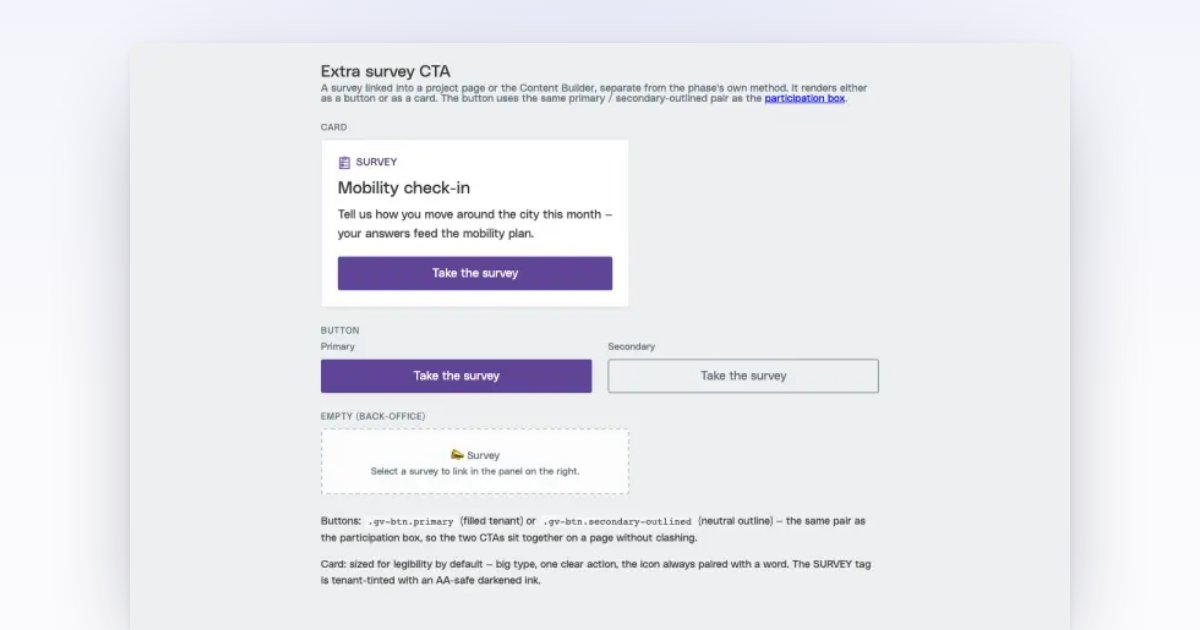
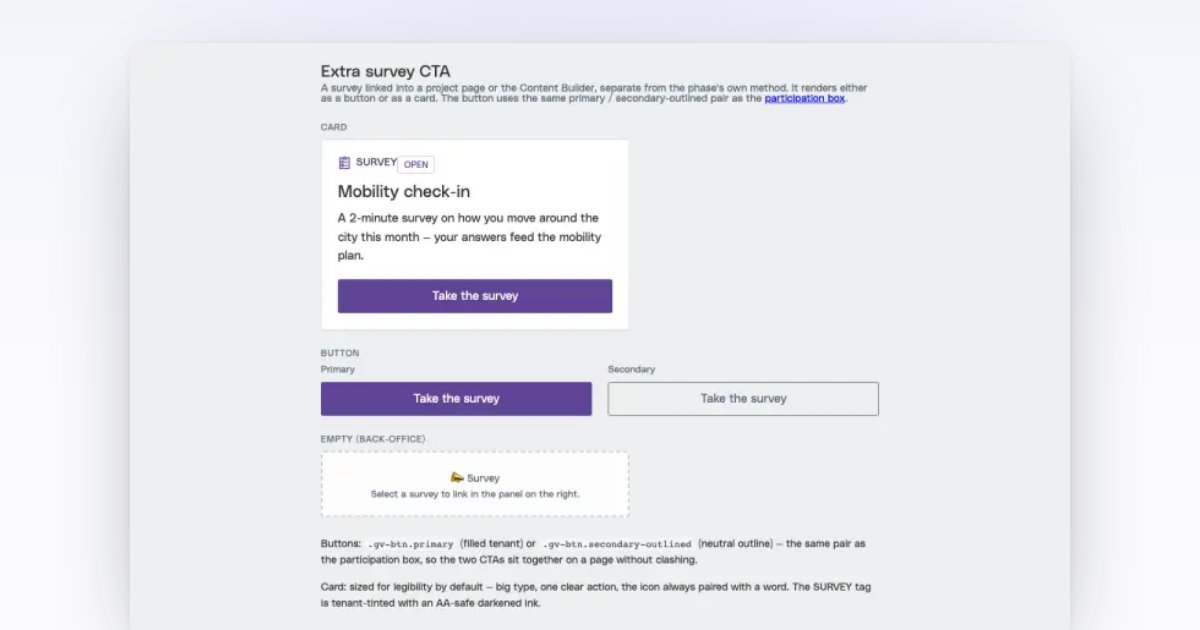
sweep: drop dead .hb-togglerow CSS, expose api.wireBlock, demo extra-survey via registry
Three low-risk audit cleanups:
 • F-CA5: remove the orphaned .hb-togglerow* rules from govocal-widgets.css — the
   registry emits .gv-bo-togglerow (govocal-bo.css); 0 markup uses remained.
 • F-CV3: expose wireBlock on the page-builder api so consumers can re-arm
   dragstart on localStorage-restored blocks (additive; no behaviour change).
 • F-CV1: the extra-survey component demo hand-authored its card and had drifted
   (no .es-head / .gv-statuspill). Render every example from the canonical registry
   (GVWidgets.project.foBlock) so it always tracks the real widget.

Synced widgets.css + pagebuilder.js into both prototype asset copies (identical).
Verified (Playwright): demo card now shows the tag+status-pill head, buttons +
empty render, 0 errors. Lint ✓ no violations.

Changed region(s): [[0.2467, 0.2413, 0.74, 0.9651], [0.6475, 0.5429, 0.74, 0.573]]

diff --git a/components/extra-survey/index.html b/components/extra-survey/index.html
@@ -26,37 +26,26 @@
     <h1>Extra survey CTA</h1>
     <p class="sub">A survey linked into a project page or the Content Builder, separate from the phase's own method. It renders either as a button or as a card. The button uses the same primary / secondary-outlined pair as the <a href="../participation-box/">participation box</a>.</p>
 
+    <!-- Every example below is rendered from the canonical registry
+         (GVWidgets.project['extra-surveys'] / .foBlock) so this demo tracks the real
+         card — incl. the .es-head tag+status-pill row — and never drifts. -->
     <p class="eyebrow">Card</p>
-    <div style="max-width: 420px;">
-      <!-- ===== COMPONENT — card (copy from here) ===== -->
-      <div class="gv-extra-survey gv-extra-survey--card">
-        <span class="gv-extra-survey__tag"><span class="gv-icon" data-gv-icon="survey" aria-hidden="true"></span> Survey</span>
-        <h3 class="gv-extra-survey__title">Mobility check-in</h3>
-        <p class="gv-extra-survey__desc">Tell us how you move around the city this month — your answers feed the mobility plan.</p>
-        <a class="gv-btn primary full" href="#">Take the survey</a>
-      </div>
-      <!-- ===== /COMPONENT ===== -->
-    </div>
+    <div style="max-width: 420px;" data-survey='{"format":"card","style":"primary","state":"current"}'></div>
 
     <p class="eyebrow">Button</p>
     <div class="row">
       <div>
         <p class="label">Primary</p>
-        <div class="gv-extra-survey"><a class="gv-btn primary full" href="#">Take the survey</a></div>
+        <div data-survey='{"format":"button","style":"primary","state":"current"}'></div>
       </div>
       <div>
         <p class="label">Secondary</p>
-        <div class="gv-extra-survey"><a class="gv-btn secondary-outlined full" href="#">Take the survey</a></div>
+        <div data-survey='{"format":"button","style":"secondary","state":"current"}'></div>
       </div>
     </div>
 
     <p class="eyebrow">Empty (back-office)</p>
-    <div style="max-width: 420px;">
-      <div class="gv-extra-survey__empty">
-        <div class="gv-extra-survey__empty-t">📣 Survey</div>
-        <div class="gv-extra-survey__empty-s">Select a survey to link in the panel on the right.</div>
-      </div>
-    </div>
+    <div style="max-width: 420px;" data-survey='{"survey":""}'></div>
 
     <div class="notes">
       <p><strong>Buttons:</strong> <code>.gv-btn.primary</code> (filled tenant) or <code>.gv-btn.secondary-outlined</code> (neutral outline) — the same pair as the participation box, so the two CTAs sit together on a page without clashing.</p>
@@ -65,5 +54,18 @@
   </div>
   <script src="../../skills/govocal-ui/govocal-themes.js" defer></script>
   <script src="../../skills/govocal-ui/govocal-icons.js" defer></script>
+  <script src="../../skills/govocal-ui/govocal-widgets.js" defer></script>
+  <script defer>
+    // Render each example straight from the canonical registry, so the demo always
+    // matches the live Extra-survey widget (one source of truth — no hand-authored copy).
+    window.addEventListener('DOMContentLoaded', function () {
+      var DEF = { survey: 'mobility', format: 'card', style: 'primary', label: '', cardVariant: 'easy', state: 'current' };
+      document.querySelectorAll('[data-survey]').forEach(function (el) {
+        var opts = {}; try { opts = JSON.parse(el.getAttribute('data-survey')); } catch (e) {}
+        el.innerHTML = GVWidgets.project.foBlock('extra-surveys', { survey: Object.assign({}, DEF, opts) });
+      });
+      if (window.GVIcons) GVIcons.render(document.body);
+    });
+  </script>
 </body>
 </html>

diff --git a/parallel-participation/prototypes/back-office-test/assets/govocal-widgets.css b/parallel-participation/prototypes/back-office-test/assets/govocal-widgets.css
@@ -70,11 +70,6 @@
 .hb-radiopill { padding: 7px 12px; border: 1px solid var(--gv-grey-300); border-radius: var(--gv-radius); background: var(--gv-white); font-size: var(--gv-fs-13); color: var(--gv-text-secondary); cursor: pointer; }
 .hb-radiopill:hover { border-color: var(--gv-bo-primary); }
 .hb-radiopill.is-active { border-color: var(--gv-bo-primary); background: var(--gv-teal-75); color: var(--gv-bo-primary); font-weight: 600; }
-.hb-togglerow { display: flex; gap: 12px; align-items: flex-start; margin-bottom: 16px; }
-.hb-togglerow .gv-toggle { flex: none; margin-top: 2px; }
-.hb-togglerow__txt { flex: 1; }
-.hb-togglerow__label { font-size: var(--gv-fs-s); font-weight: 600; color: var(--gv-bo-primary); }
-.hb-togglerow__help { margin: 3px 0 0; font-size: var(--gv-fs-xs); color: var(--gv-cool-grey-600); line-height: 1.45; }
 .hb-colorfield { display: flex; align-items: center; gap: 8px; }
 .hb-swatch { width: 34px; height: 34px; border-radius: var(--gv-radius); border: 1px solid var(--gv-grey-300); flex: none; }
 .hb-pickbtn { display: flex; align-items: center; justify-content: space-between; gap: 8px; width: 100%; padding: 9px 12px; border: 1px solid var(--gv-grey-400); border-radius: var(--gv-radius); background: var(--gv-white); font-size: var(--gv-fs-s); color: var(--gv-text-secondary); cursor: pointer; }

diff --git a/parallel-participation/prototypes/parallel-editor-builder-v3/assets/govocal-widgets.css b/parallel-participation/prototypes/parallel-editor-builder-v3/assets/govocal-widgets.css
@@ -70,11 +70,6 @@
 .hb-radiopill { padding: 7px 12px; border: 1px solid var(--gv-grey-300); border-radius: var(--gv-radius); background: var(--gv-white); font-size: var(--gv-fs-13); color: var(--gv-text-secondary); cursor: pointer; }
 .hb-radiopill:hover { border-color: var(--gv-bo-primary); }
 .hb-radiopill.is-active { border-color: var(--gv-bo-primary); background: var(--gv-teal-75); color: var(--gv-bo-primary); font-weight: 600; }
-.hb-togglerow { display: flex; gap: 12px; align-items: flex-start; margin-bottom: 16px; }
-.hb-togglerow .gv-toggle { flex: none; margin-top: 2px; }
-.hb-togglerow__txt { flex: 1; }
-.hb-togglerow__label { font-size: var(--gv-fs-s); font-weight: 600; color: var(--gv-bo-primary); }
-.hb-togglerow__help { margin: 3px 0 0; font-size: var(--gv-fs-xs); color: var(--gv-cool-grey-600); line-height: 1.45; }
 .hb-colorfield { display: flex; align-items: center; gap: 8px; }
 .hb-swatch { width: 34px; height: 34px; border-radius: var(--gv-radius); border: 1px solid var(--gv-grey-300); flex: none; }
 .hb-pickbtn { display: flex; align-items: center; justify-content: space-between; gap: 8px; width: 100%; padding: 9px 12px; border: 1px solid var(--gv-grey-400); border-radius: var(--gv-radius); background: var(--gv-white); font-size: var(--gv-fs-s); color: var(--gv-text-secondary); cursor: pointer; }

diff --git a/skills/govocal-ui/govocal-widgets.css b/skills/govocal-ui/govocal-widgets.css
@@ -70,11 +70,6 @@
 .hb-radiopill { padding: 7px 12px; border: 1px solid var(--gv-grey-300); border-radius: var(--gv-radius); background: var(--gv-white); font-size: var(--gv-fs-13); color: var(--gv-text-secondary); cursor: pointer; }
 .hb-radiopill:hover { border-color: var(--gv-bo-primary); }
 .hb-radiopill.is-active { border-color: var(--gv-bo-primary); background: var(--gv-teal-75); color: var(--gv-bo-primary); font-weight: 600; }
-.hb-togglerow { display: flex; gap: 12px; align-items: flex-start; margin-bottom: 16px; }
-.hb-togglerow .gv-toggle { flex: none; margin-top: 2px; }
-.hb-togglerow__txt { flex: 1; }
-.hb-togglerow__label { font-size: var(--gv-fs-s); font-weight: 600; color: var(--gv-bo-primary); }
-.hb-togglerow__help { margin: 3px 0 0; font-size: var(--gv-fs-xs); color: var(--gv-cool-grey-600); line-height: 1.45; }
 .hb-colorfield { display: flex; align-items: center; gap: 8px; }
 .hb-swatch { width: 34px; height: 34px; border-radius: var(--gv-radius); border: 1px solid var(--gv-grey-300); flex: none; }
 .hb-pickbtn { display: flex; align-items: center; justify-content: space-between; gap: 8px; width: 100%; padding: 9px 12px; border: 1px solid var(--gv-grey-400); border-radius: var(--gv-radius); background: var(--gv-white); font-size: var(--gv-fs-s); color: var(--gv-text-secondary); cursor: pointer; }

diff --git a/parallel-participation/prototypes/back-office-test/assets/govocal-pagebuilder.js b/parallel-participation/prototypes/back-office-test/assets/govocal-pagebuilder.js
@@ -231,7 +231,8 @@ window.GVPageBuilder = (function () {
     });
 
     var api = { makeBlock: makeBlock, select: select, deselect: deselect, frame: frame, root: root,
-      panel: sBody, toast: toast, makeDropZone: makeDropZone, reflectEmpty: reflectEmptyAll, def: def };
+      panel: sBody, toast: toast, makeDropZone: makeDropZone, reflectEmpty: reflectEmptyAll, def: def,
+      wireBlock: wireBlock };   // expose so consumers can re-arm dragstart on restored blocks (F-CV3)
 
     // wire any pre-existing static blocks already in the frame (+ their nested zones)
     var pre = frame.querySelectorAll(':scope > .gv-bo-cb-block');

diff --git a/parallel-participation/prototypes/parallel-editor-builder-v3/assets/govocal-pagebuilder.js b/parallel-participation/prototypes/parallel-editor-builder-v3/assets/govocal-pagebuilder.js
@@ -231,7 +231,8 @@ window.GVPageBuilder = (function () {
     });
 
     var api = { makeBlock: makeBlock, select: select, deselect: deselect, frame: frame, root: root,
-      panel: sBody, toast: toast, makeDropZone: makeDropZone, reflectEmpty: reflectEmptyAll, def: def };
+      panel: sBody, toast: toast, makeDropZone: makeDropZone, reflectEmpty: reflectEmptyAll, def: def,
+      wireBlock: wireBlock };   // expose so consumers can re-arm dragstart on restored blocks (F-CV3)
 
     // wire any pre-existing static blocks already in the frame (+ their nested zones)
     var pre = frame.querySelectorAll(':scope > .gv-bo-cb-block');

diff --git a/skills/govocal-ui/govocal-pagebuilder.js b/skills/govocal-ui/govocal-pagebuilder.js
@@ -231,7 +231,8 @@ window.GVPageBuilder = (function () {
     });
 
     var api = { makeBlock: makeBlock, select: select, deselect: deselect, frame: frame, root: root,
-      panel: sBody, toast: toast, makeDropZone: makeDropZone, reflectEmpty: reflectEmptyAll, def: def };
+      panel: sBody, toast: toast, makeDropZone: makeDropZone, reflectEmpty: reflectEmptyAll, def: def,
+      wireBlock: wireBlock };   // expose so consumers can re-arm dragstart on restored blocks (F-CV3)
 
     // wire any pre-existing static blocks already in the frame (+ their nested zones)
     var pre = frame.querySelectorAll(':scope > .gv-bo-cb-block');
